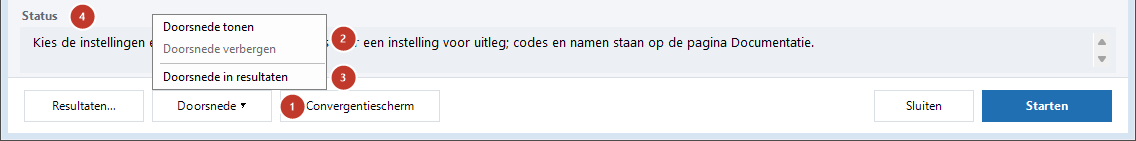
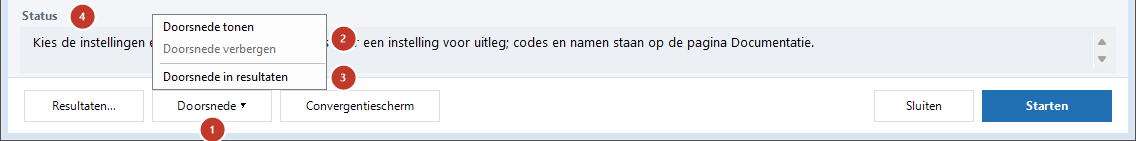
Review fixes: separate Hide section action, menu disposal, document list width
- Hide section returns its own action (section_hide) that only removes
  the shape; Show section on a shape that is shown draws it anew. Before,
  both toggled on the model state, so Hide could show the shape when it
  had been removed in Mecway meanwhile.
- The Section menu is disposed after the message loop, not from the
  form's Disposed event that fires inside the menu item's Click.
- No mnemonic on the Section button (a plain S or D on a focused
  checkbox opened the menu).
- The document list widens with the screen DPI as well as the font size
  (Font.Size stays in points on a real 125 % screen).
- Marker 1 of section_buttons_*.png on the Section button; CHANGELOG
  wording on the six-line messages box.

Changed region(s): [[0.154, 0.8227, 0.2157, 1.0], [0.2465, 0.6525, 0.2773, 0.8511]]

diff --git a/Scripts/bridge_gui.py b/Scripts/bridge_gui.py
@@ -1230,7 +1230,7 @@ def _show_winforms_dialog(current, status=u"", model=None):
     Convergentiescherm and Sluiten.
 
     Returns {"action": "run" | "results" | "section_show" |
-    "section_results" | "close", "values": dict or None} ("values": the
+    "section_hide" | "section_results" | "close", "values": dict or None} ("values": the
     validated new values, not for "close"). The
     convergence screen and the documentation work inside the window; for
     the other actions the window closes and MecwayAsterBridgeMain
@@ -1259,6 +1259,7 @@ def _show_winforms_dialog(current, status=u"", model=None):
     result = {"action": "close", "values": None, "error": None}
 
     def build_and_run():
+        leftovers = []   # components to dispose with the window
         try:
             look = _Look()
             form = Form()
@@ -1999,8 +2000,15 @@ def _show_winforms_dialog(current, status=u"", model=None):
             doc_state = {"current": doc_items[0][1], "browser": None}
             doc_list = ListBox()
             doc_list.Dock = DockStyle.Left
-            # 230 px at 100 %, wider with a larger font (display scale)
-            doc_list.Width = int(230 * look.font.Size / _STYLE["font"][1])
+            # 230 px at 100 %, wider at a larger display scale (pixels per
+            # inch of the window) or a larger font
+            gr = form.CreateGraphics()
+            try:
+                dpi_k = gr.DpiX / 96.0
+            finally:
+                gr.Dispose()
+            doc_list.Width = int(230 * max(
+                1.0, dpi_k, look.font.Size / _STYLE["font"][1]))
             doc_list.BorderStyle = getattr(BorderStyle, "None")
             doc_list.BackColor = look.col("status_bg")
             doc_list.IntegralHeight = False
@@ -2320,6 +2328,7 @@ def _show_winforms_dialog(current, status=u"", model=None):
             on_ok = guarded(lambda: leave("run"))
             on_results = guarded(lambda: leave("results"))
             on_section = guarded(lambda: leave("section_show"))
+            on_section_hide = guarded(lambda: leave("section_hide"))
             on_section_results = guarded(lambda: leave("section_results"))
             on_monitor = guarded(lambda: say(open_convergence_monitor(
                 resolve_work_dir(field_text("work_dir"),
@@ -2341,8 +2350,9 @@ def _show_winforms_dialog(current, status=u"", model=None):
             section_menu.Font = look.font
             section_menu.ShowImageMargin = False
             section_menu.ShowItemToolTips = True
-            # not a child of the form: release it with the form
-            form.Disposed += lambda sender, args: section_menu.Dispose()
+            # not a child of the form: released after the message loop
+            # (form.Close() in an item's Click disposes the window at once)
+            leftovers.append(section_menu)
             for name, text, enabled, handler, help_text in (
                     ("section_show", tr("Doorsnede tonen", "Show section"),
                      not section_shown, on_section, tr(
@@ -2356,7 +2366,7 @@ def _show_winforms_dialog(current, status=u"", model=None):
                         "comes from MecwaySectionProps.")),
                     ("section_hide",
                      tr("Doorsnede verbergen", "Hide section"),
-                     section_shown, on_section, tr(
+                     section_shown, on_section_hide, tr(
                         "Haalt de tijdelijke elementen van Doorsnede tonen "
                         "weer uit het model.",
                         "Removes the temporary elements of Show section "
@@ -2389,9 +2399,8 @@ def _show_winforms_dialog(current, status=u"", model=None):
                 # upwards: the button is at the bottom of the window
                 section_menu.Show(section_btn, Point(0, 0),
                                   ToolStripDropDownDirection.AboveRight)
-            # &: Alt+D / Alt+S opens the menu (Click, as Enter and Space)
             section_btn = add_button(
-                tr(u"&Doorsnede ▾", u"&Section ▾"), 120,
+                tr(u"Doorsnede ▾", u"Section ▾"), 120,
                 guarded(show_section_menu), tr(
                     "Vorm van General sections (uit MecwaySectionProps): "
                     "tonen of verbergen op de balken, of in de resultaten "
@@ -2482,6 +2491,8 @@ def _show_winforms_dialog(current, status=u"", model=None):
                 # Release the window and browser element (ActiveX): the
                 # window is rebuilt after every run.
                 form.Dispose()
+                for item in leftovers:
+                    item.Dispose()
         except Exception as e:
             result["error"] = e
 

diff --git a/Scripts/MecwayAsterBridgeMain.py b/Scripts/MecwayAsterBridgeMain.py
@@ -1660,13 +1660,20 @@ def _section_view(warn_directions=True):
     return view, model_data, None
 
 
-def _section_show_action():
-    """Button Show/Hide section: the shape as temporary elements in the
-    model, to see it before a calculation. Returns (ok, status text)."""
+def _section_show_action(show=True):
+    """Show section / Hide section (menu Section): the shape as temporary
+    elements in the model, to see it before a calculation; show=False
+    only removes them. A shape that is already shown is shown anew (it
+    may have been changed in Mecway in the meantime). Returns (ok, status
+    text)."""
     if bridge_section_model.shown(mw):
         if not bridge_section_model.remove_shape(mw):
             return False, _SHAPE_LEFT()
-        return True, tr(u"Doorsnede verborgen.", u"Section hidden.")
+        if not show:
+            return True, tr(u"Doorsnede verborgen.", u"Section hidden.")
+    elif not show:
+        return True, tr(u"Doorsnede was al verborgen.",
+                        u"Section was already hidden.")
     # Orientation and outline are read from the file: it has to be current.
     save_error = _save_model()
     if save_error:
@@ -1788,11 +1795,11 @@ def main():
                 status = text if ok else tr(u"Resultaten: {0}",
                                             u"Results: {0}").format(text)
             continue
-        if action in ("section_show", "section_results"):
+        if action in ("section_show", "section_hide", "section_results"):
             try:
-                ok, text = (_section_show_action()
-                            if action == "section_show" else
-                            _section_results_action())
+                ok, text = (_section_results_action()
+                            if action == "section_results" else
+                            _section_show_action(action == "section_show"))
             except Exception as e:
                 ok, text = False, u"{0}".format(e)
                 log("ERROR: Section view: {0}".format(e))

diff --git a/CHANGELOG.md b/CHANGELOG.md
@@ -8,11 +8,13 @@
   on the track, PageUp/PageDown) and is as wide as its longest page title needs. At a display
   scale of 125 % the label column, the info line of an analysis page, the document list and the
   status box grow with the text, and a small window no longer gets a horizontal scrollbar on
-  General. The save note shows `Scripts\bridge_utils.py` instead of the full path.
+  General. *Hide section* only removes the shape; *Show section* on a shape that is already
+  shown draws it anew. The save note shows `Scripts\bridge_utils.py` instead of the full path.
 - **Convergence window**: the buttons and the top bar have the look of the main window (dark
   bar, flat white buttons with a hover colour, grey text when disabled; colours shared through
   `bridge_style.py`). At 125 % the legends, axis captions, rows and the cards of a linear
-  analysis no longer run into each other, and the messages keep at least six lines.
+  analysis no longer run into each other. The messages box is six lines high and keeps that
+  height in a low window; the plots shrink instead.
 
 - **Stress over beam sections in Mecway**: after a Code-Aster run the beams with a general section
   with an outline, and Mecway's I, T, L and C, show per element end the largest von Mises,
